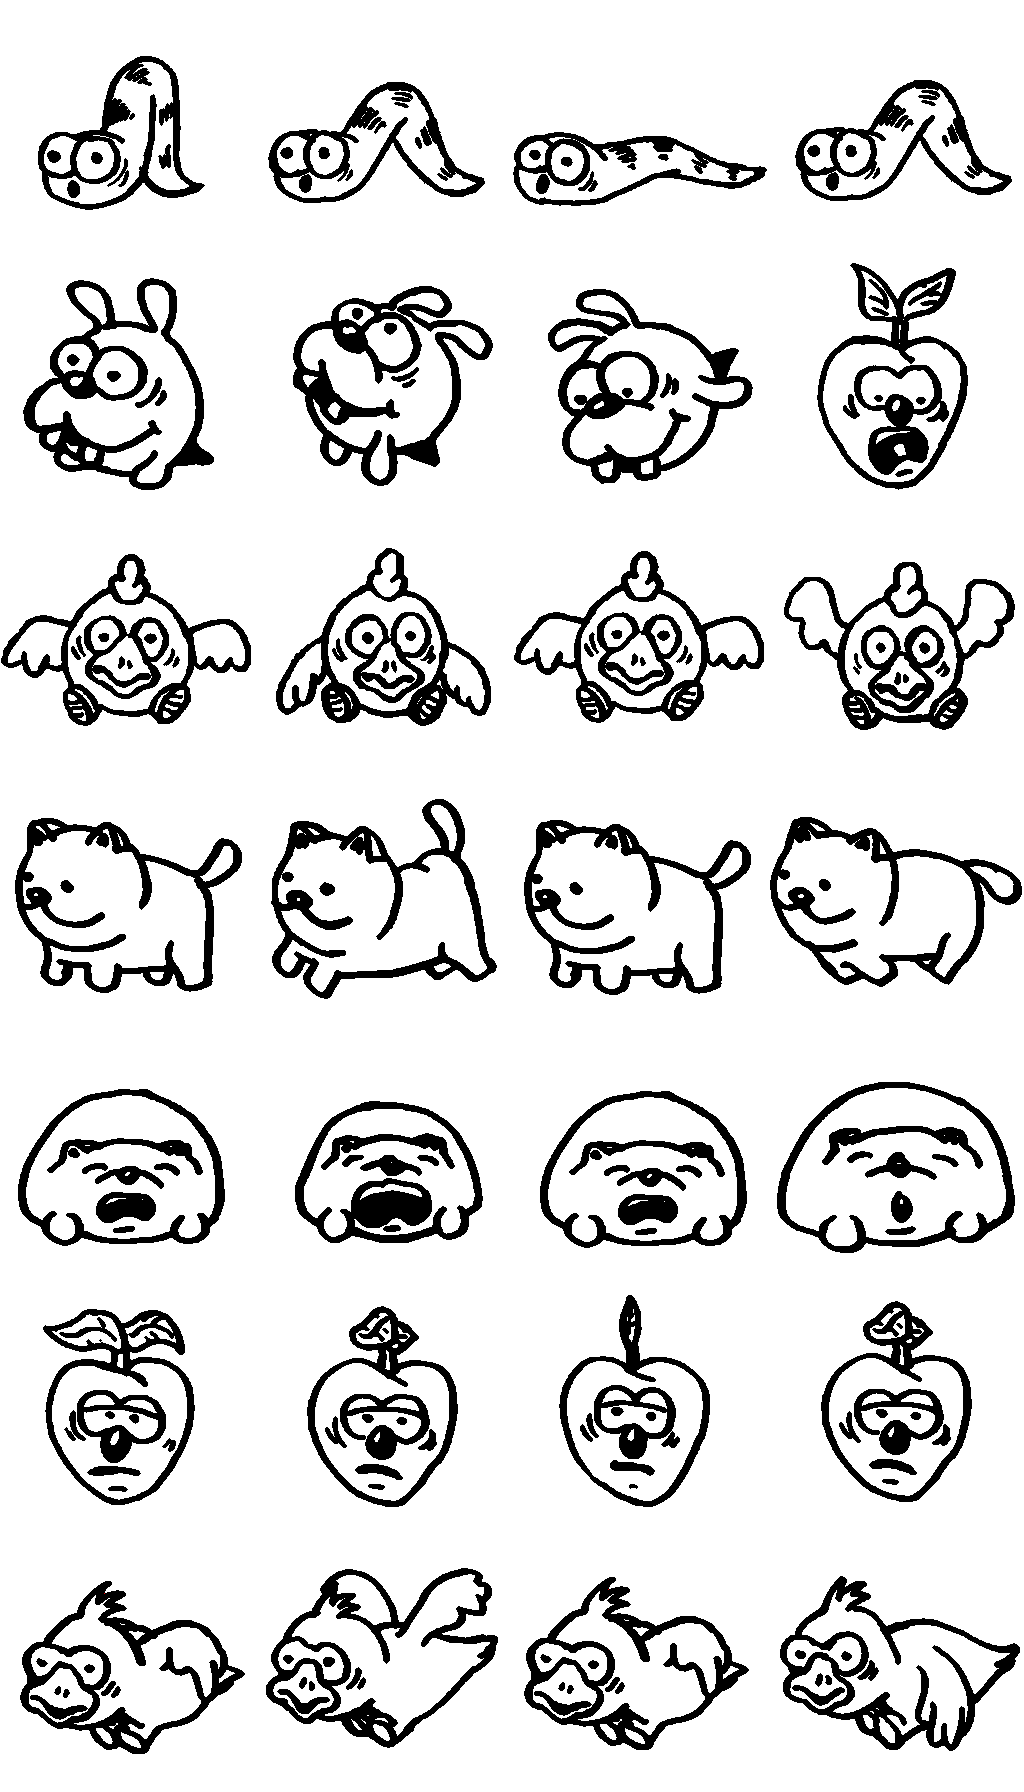
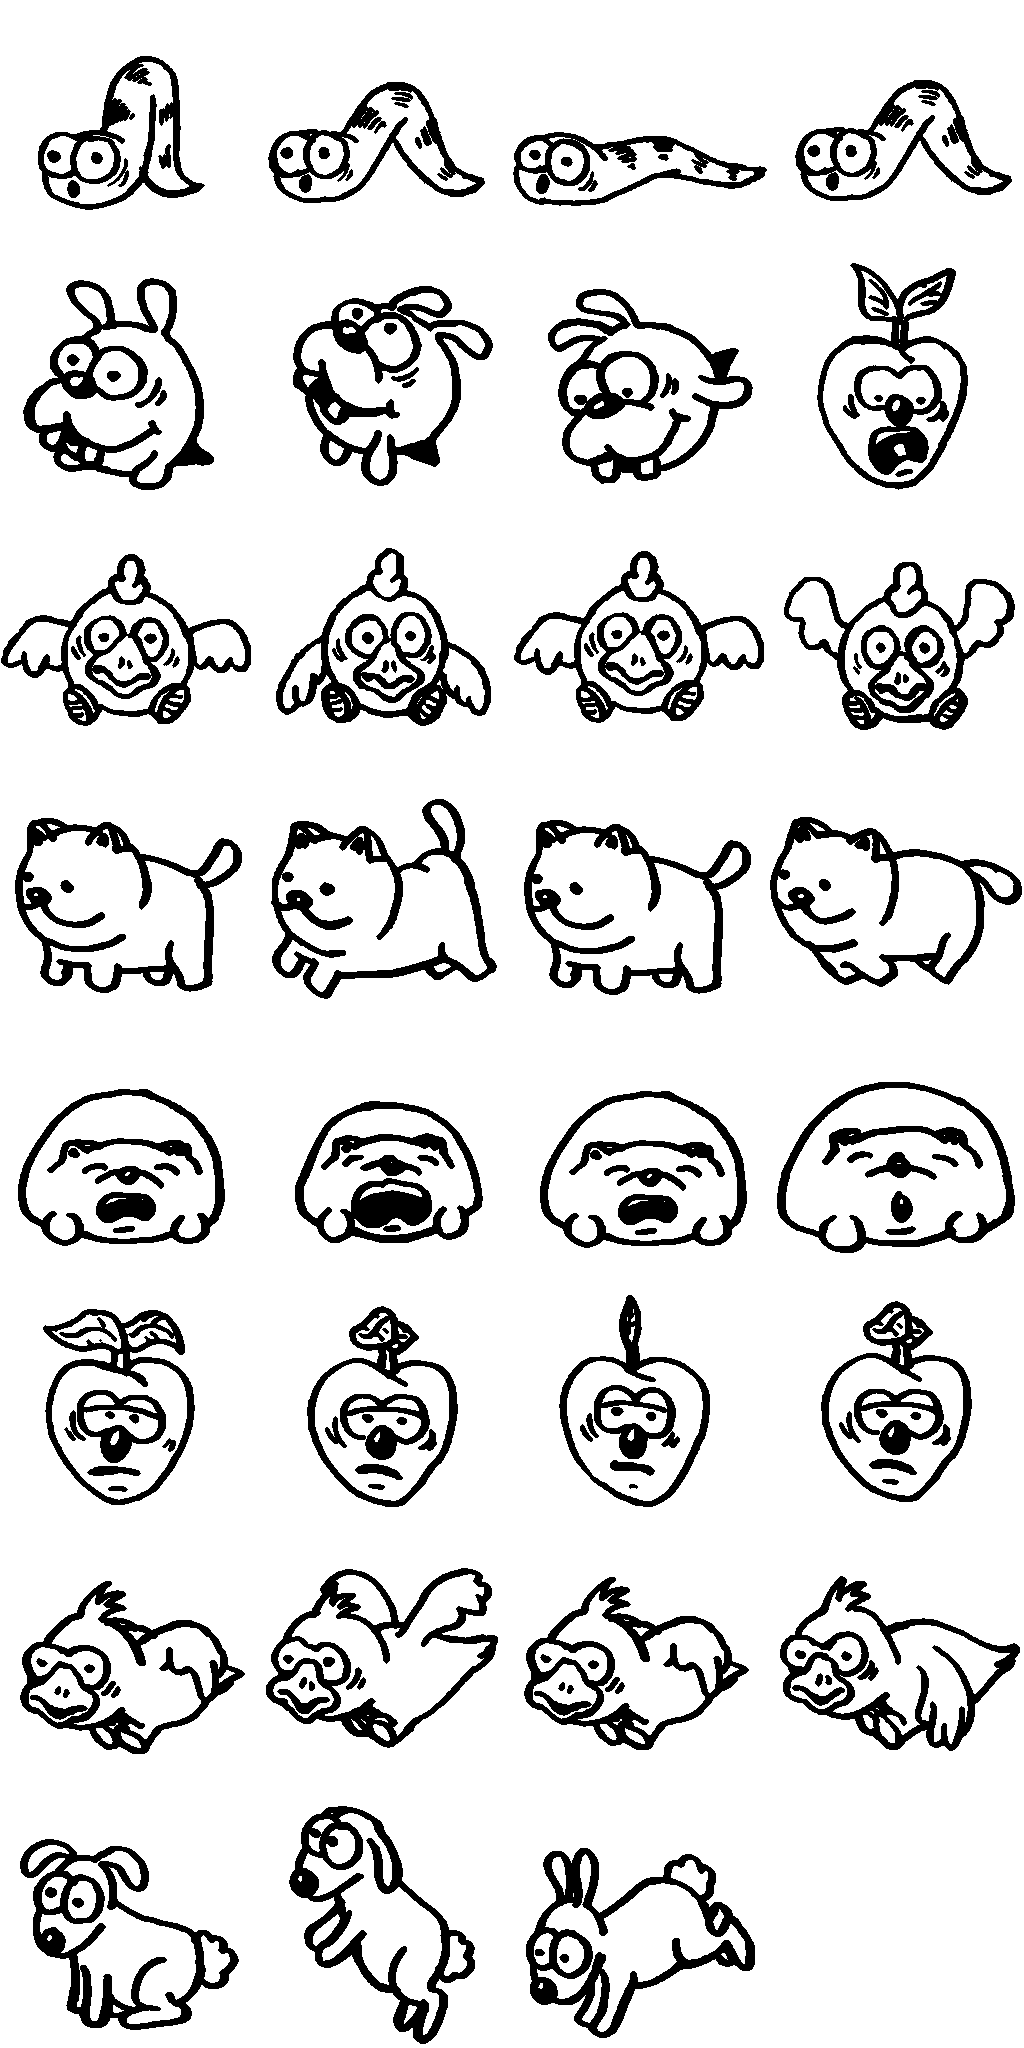
Rabbit

Changed region(s): [[0.0, 0.0312, 1.0, 1.0], [0.9688, 0.5625, 1.0, 0.5938]]

diff --git a/src/enemytypes.ts b/src/enemytypes.ts
@@ -7,7 +7,7 @@ import { Player } from "./player.js";
 
 
 const ENEMY_TYPES = () : Array<Function> => [
-    Snake, Dog, Bird, Cat, Bear, Apple, BigBird];
+    Snake, Dog, Bird, Cat, Bear, Apple, BigBird, Rabbit];
 
 export const getEnemyType = (index : number) : Function => ENEMY_TYPES()
     [clamp(index, 0, ENEMY_TYPES().length-1) | 0];
@@ -170,7 +170,7 @@ export class Cat extends Enemy {
 
     constructor(x : number, y : number) {
 
-        super(x, y, 3, 0.90);
+        super(x, y, 3, 0.80);
 
         this.hitbox = new Vector2(96, 56);
         this.collisionBox = new Vector2(96, 64);
@@ -332,7 +332,7 @@ export class BigBird extends Enemy {
 
     constructor(x : number, y : number) {
 
-        super(x, y, 6, 0.90);
+        super(x, y, 6, 0.80);
 
         this.hitbox = new Vector2(96, 48);
         this.collisionBox = new Vector2(128, 72);
@@ -349,6 +349,74 @@ export class BigBird extends Enemy {
         this.flip = this.dir > 0 ? Flip.Horizontal : Flip.None;
 
         this.speed.x = FLY_SPEED * this.dir;
+    }
+
+
+    protected wallCollisionEvent(dir : number, state : FrameState) {
+
+        this.dir = -dir;
+    }
+}
+
+
+export class Rabbit extends Enemy {
+
+
+    static JUMP_TIME = 30;
+
+
+    private jumpTimer : number;
+
+
+    constructor(x : number, y : number) {
+
+        const BASE_GRAVITY = 16.0;
+
+        super(x, y, 7, 0.80);
+
+        this.hitbox = new Vector2(64, 64);
+        this.collisionBox = new Vector2(128, 96);
+
+        this.center = new Vector2(0, 30);
+
+        this.target.y = BASE_GRAVITY;
+        this.friction.y = 0.35;
+
+        this.jumpTimer = Rabbit.JUMP_TIME + 
+            (Math.floor((x | 0) % 2)) * Rabbit.JUMP_TIME/2;
+
+        this.bounceFactor.x = 1;
+    }
+
+
+    protected updateAI(state : FrameState) {
+
+        const JUMP_HEIGHT = -10.0;
+        const ANIM_EPS = 1.0;
+        const BASE_SPEED = 3.0;
+
+        this.target.x = 0.0;
+        if (this.canJump) {
+
+            if ((this.jumpTimer -= state.step) <= 0) {
+
+                this.speed.y = JUMP_HEIGHT;
+                this.jumpTimer += Rabbit.JUMP_TIME;
+            }
+        }
+        else {
+
+            this.target.x = this.dir * BASE_SPEED;
+        }
+
+        let frame = 0;
+        if (this.speed.y < -ANIM_EPS)
+            frame = 1;
+        else if (this.speed.y > ANIM_EPS)
+            frame = 2;
+        
+        this.spr.setFrame(frame, this.spr.getRow());
+        this.flip = this.dir < 0 ? Flip.None : Flip.Horizontal;
     }
 
 

diff --git a/output/js/enemytypes.js b/output/js/enemytypes.js
@@ -3,7 +3,7 @@ import { clamp } from "./core/mathext.js";
 import { Vector2 } from "./core/vector.js";
 import { Enemy } from "./enemy.js";
 const ENEMY_TYPES = () => [
-    Snake, Dog, Bird, Cat, Bear, Apple, BigBird
+    Snake, Dog, Bird, Cat, Bear, Apple, BigBird, Rabbit
 ];
 export const getEnemyType = (index) => ENEMY_TYPES()[clamp(index, 0, ENEMY_TYPES().length - 1) | 0];
 export class Snake extends Enemy {
@@ -91,7 +91,7 @@ export class Bird extends Enemy {
 }
 export class Cat extends Enemy {
     constructor(x, y) {
-        super(x, y, 3, 0.90);
+        super(x, y, 3, 0.80);
         this.hitbox = new Vector2(96, 56);
         this.collisionBox = new Vector2(96, 64);
         this.center = new Vector2(0, 48);
@@ -183,7 +183,7 @@ export class Apple extends Enemy {
 }
 export class BigBird extends Enemy {
     constructor(x, y) {
-        super(x, y, 6, 0.90);
+        super(x, y, 6, 0.80);
         this.hitbox = new Vector2(96, 48);
         this.collisionBox = new Vector2(128, 72);
         this.dir = ((x | 0) % 2) == 0 ? 1 : -1;
@@ -198,3 +198,43 @@ export class BigBird extends Enemy {
         this.dir = -dir;
     }
 }
+export class Rabbit extends Enemy {
+    constructor(x, y) {
+        const BASE_GRAVITY = 16.0;
+        super(x, y, 7, 0.80);
+        this.hitbox = new Vector2(64, 64);
+        this.collisionBox = new Vector2(128, 96);
+        this.center = new Vector2(0, 30);
+        this.target.y = BASE_GRAVITY;
+        this.friction.y = 0.35;
+        this.jumpTimer = Rabbit.JUMP_TIME +
+            (Math.floor((x | 0) % 2)) * Rabbit.JUMP_TIME / 2;
+        this.bounceFactor.x = 1;
+    }
+    updateAI(state) {
+        const JUMP_HEIGHT = -10.0;
+        const ANIM_EPS = 1.0;
+        const BASE_SPEED = 3.0;
+        this.target.x = 0.0;
+        if (this.canJump) {
+            if ((this.jumpTimer -= state.step) <= 0) {
+                this.speed.y = JUMP_HEIGHT;
+                this.jumpTimer += Rabbit.JUMP_TIME;
+            }
+        }
+        else {
+            this.target.x = this.dir * BASE_SPEED;
+        }
+        let frame = 0;
+        if (this.speed.y < -ANIM_EPS)
+            frame = 1;
+        else if (this.speed.y > ANIM_EPS)
+            frame = 2;
+        this.spr.setFrame(frame, this.spr.getRow());
+        this.flip = this.dir < 0 ? Flip.None : Flip.Horizontal;
+    }
+    wallCollisionEvent(dir, state) {
+        this.dir = -dir;
+    }
+}
+Rabbit.JUMP_TIME = 30;
